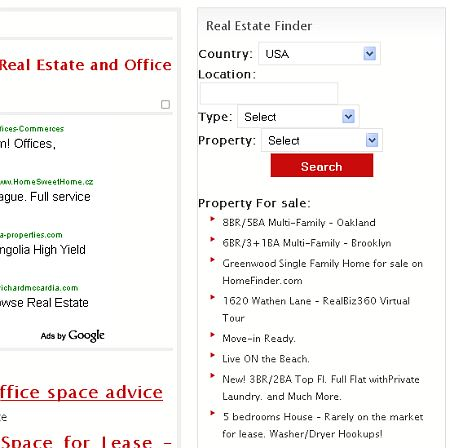
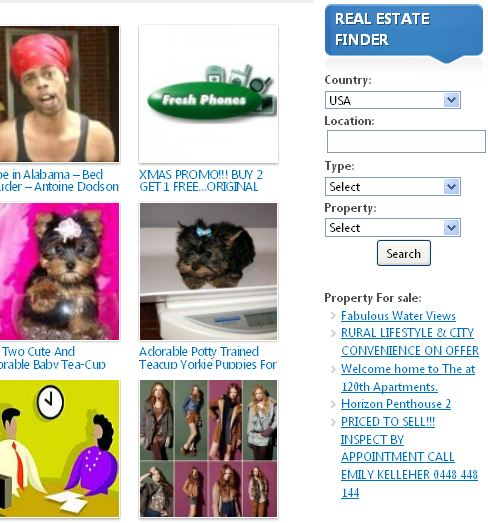
Changed works upto 3.0.3 wp
git-svn-id: https://plugins.svn.wordpress.org/real-estate-finder/trunk@322202 b8457f37-d9ea-0310-8a92-e5e31aec5664

diff --git a/real-estate-finder.php b/real-estate-finder.php
@@ -4,14 +4,14 @@ Plugin Name:   Real Estate Finder
 Plugin URI: http://www.onlinerel.com/wordpress-plugins/
 Description: Plugin "Real Estate Finder" gives visitors the opportunity to use a large database of real estate.
 Real estate search for U.S., Canada, UK, Australia
-Version: 1.2
+Version: 1.3
 Author: A.Kilius
 Author URI: http://www.onlinerel.com/wordpress-plugins/
 License: GPL2
 */
 define(real_estate_finder_URL_RSS_DEFAULT, 'http://www.worldestatesite.com/feed/');
 define(real_estate_finder_TITLE, 'Real Estate Finder');
-define(real_estate_finder_MAX_SHOWN_ITEMS, 5);
+define(real_estate_finder_MAX_SHOWN_ITEMS, 6);
 
 function real_estate_finder_widget_ShowRss($args)
 {
@@ -71,8 +71,6 @@ $output .= '<form name="forma" method="post" action="http://www.worldestatesite.
 <option value="townhouse" >townhouse</option>
 </select><br />'; 
 $output .= '<center><input type="submit" name="submit" class="submit" value="Search" /></center> </form><br />';
-// end search form
-//	$worldest = 'http://www.worldestatesite.com/';
 	$messages_count = count($messages->items);
 	if($messages_count != 0){
 	 $output .= '<b>Property For sale:</b>';	
@@ -148,6 +146,11 @@ function real_estate_finder_options() {
 Real estate search for U.S., Canada, UK, Australia</b> </p>
 <p> <h3>Add the widget "Real Estate Finder"  to your sidebar from <a href="<? echo "./widgets.php";?>"> Appearance->Widgets</a> and configure the widget options.</h3></p>
  <hr /> <hr />
+ <h2>Blog Promotion</h2>
+<p><b>If you produce original news or entertainment content, you can tap into one of the most technologically advanced traffic exchanges among blogs! Start using our Blog Promotion plugin on your site and receive 150%-300% extra traffic free! 
+Idea is simple - the more traffic you send to us, the more we can send you back.</b> </p>
+ <h3>Get plugin <a target="_blank" href="http://wordpress.org/extend/plugins/blog-promotion/">Blog Promotion</h3></a> 
+ <hr />
   <h2>Funny photos</h2>
 <p><b>Plugin "Funny Photos" displays Best photos of the day and Funny photos on your blog. There are over 5,000 photos.
 Add Funny Photos to your sidebar on your blog using  a widget.</b> </p>
@@ -157,25 +160,24 @@ Add Funny Photos to your sidebar on your blog using  a widget.</b> </p>
 <p><b>Plugin "Jobs Finder" gives visitors the opportunity to more than 1 million offer of employment.
 Jobs search for U.S., Canada, UK, Australia</b> </p>
 <h3>Get plugin <a target="_blank" href="http://wordpress.org/extend/plugins/jobs-finder/">Jobs Finder</h3></a>
- <hr /> <hr />
+ <hr />
  <h2>Funny video online</h2>
 <p><b>Plugin "Funny video online" displays Funny video on your blog. There are over 10,000 video clips.
 Add Funny YouTube videos to your sidebar on your blog using  a widget.</b> </p>
  <h3>Get plugin <a target="_blank" href="http://wordpress.org/extend/plugins/funny-video-online/">Funny video online</h3></a> 
- <hr /> <hr />
+ <hr />
 		<h2>Recipe of the Day</h2>
 <p><b>Plugin "Recipe of the Day" displays categorized recipes on your blog. There are over 20,000 recipes in 40 categories. Recipes are saved on our database, so you don't need to have space for all that information.</b> </p>
 <h3>Get plugin <a target="_blank" href="http://wordpress.org/extend/plugins/recipe-of-the-day/">Recipe of the Day</h3></a>
- <hr /> <hr />
+ <hr />
   		<h2>Joke of the Day</h2>
 <p><b>Plugin "Joke of the Day" displays categorized jokes on your blog. There are over 40,000 jokes in 40 categories. Jokes are saved on our database, so you don't need to have space for all that information. </b> </p>
  <h3>Get plugin <a target="_blank" href="http://wordpress.org/extend/plugins/joke-of-the-day/">Joke of the Day</h3></a>
-   <hr /> <hr />
+   <hr />
  
  <h2>WP Social Bookmarking</h2>
 <p><b>WP-Social-Bookmarking plugin will add a image below your posts, allowing your visitors to share your posts with their friends, on FaceBook, Twitter, Myspace, Friendfeed, Technorati, del.icio.us, Digg, Google, Yahoo Buzz, StumbleUpon.</b></p>
 <p><b>Plugin suport sharing your posts feed on <a href="http://www.onlinerel.com/">OnlineRel</a>. This helps to promote your blog and get more traffic.</b></p>
-
 <p>Advertise your real estate, cars, items... Buy, Sell, Rent. Free promote your site:
 <ul>
 	<li><a target="_blank" href="http://www.onlinerel.com/">OnlineRel</a></li>
